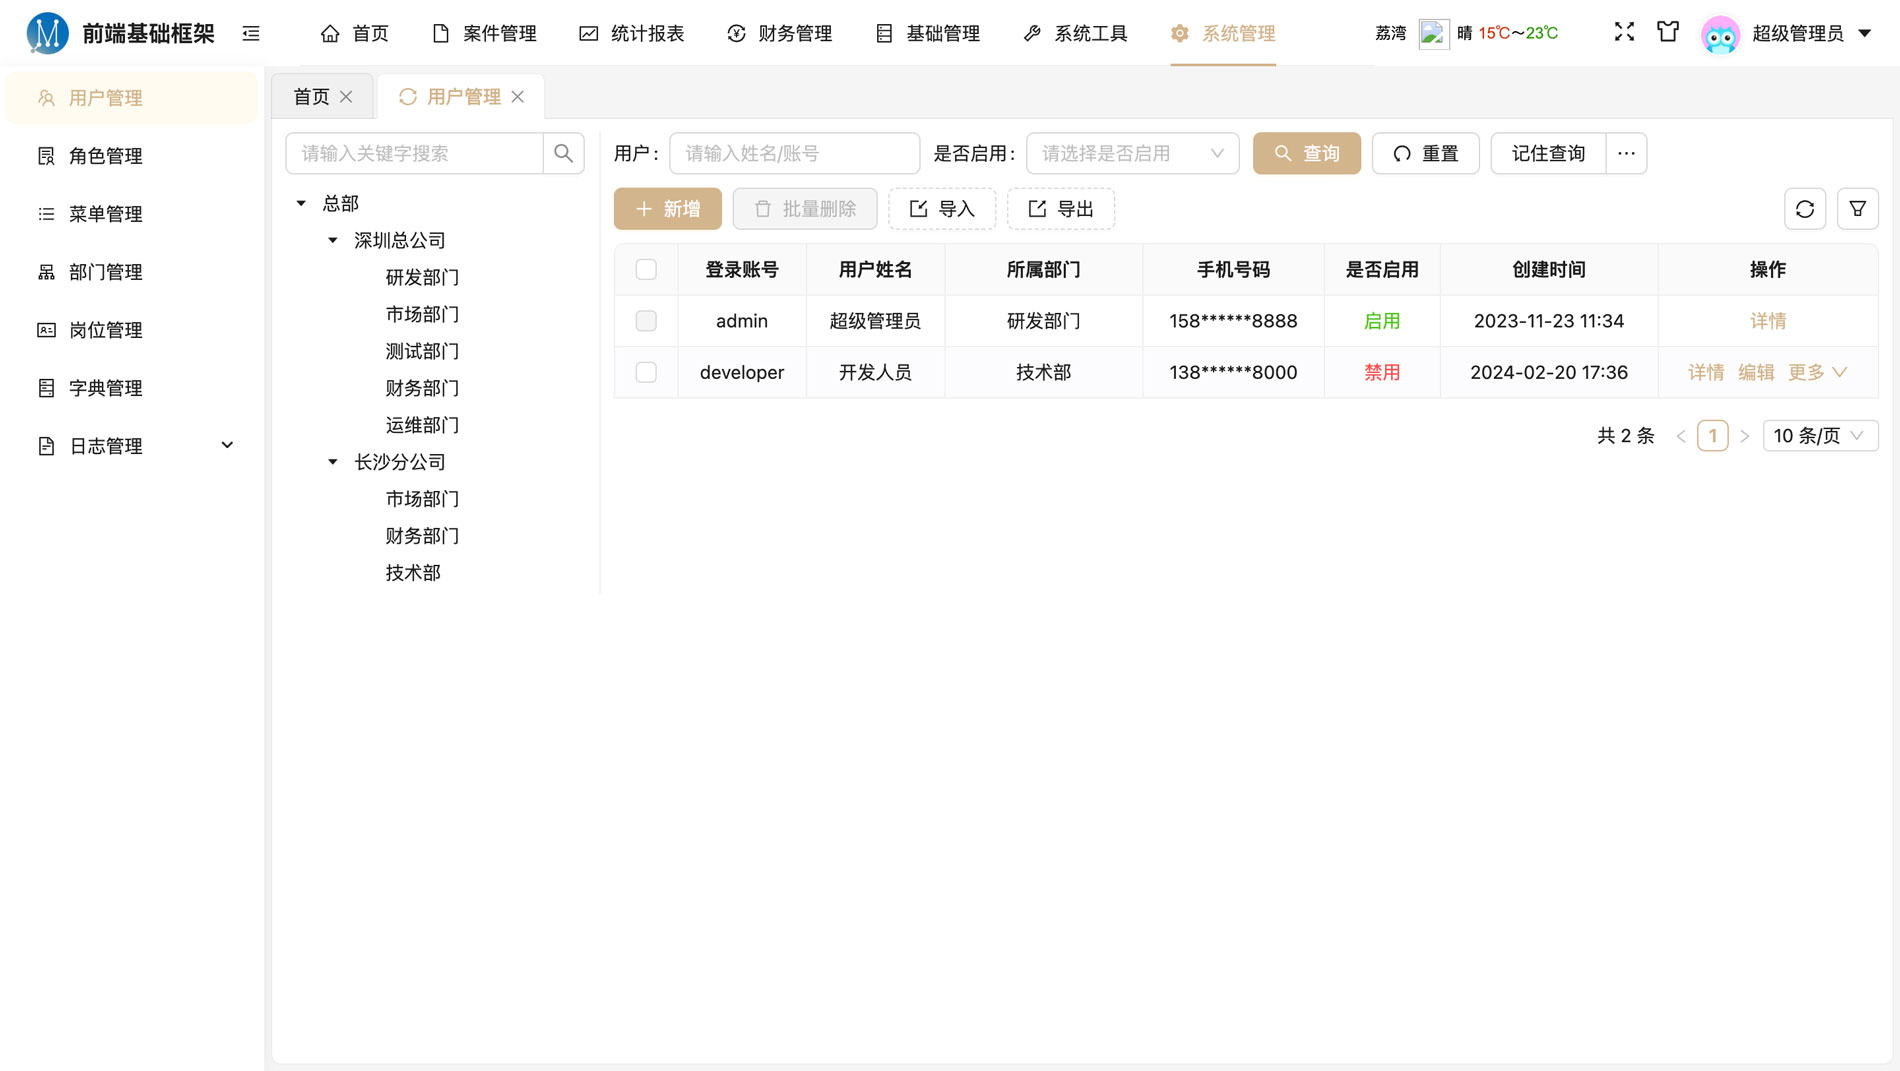
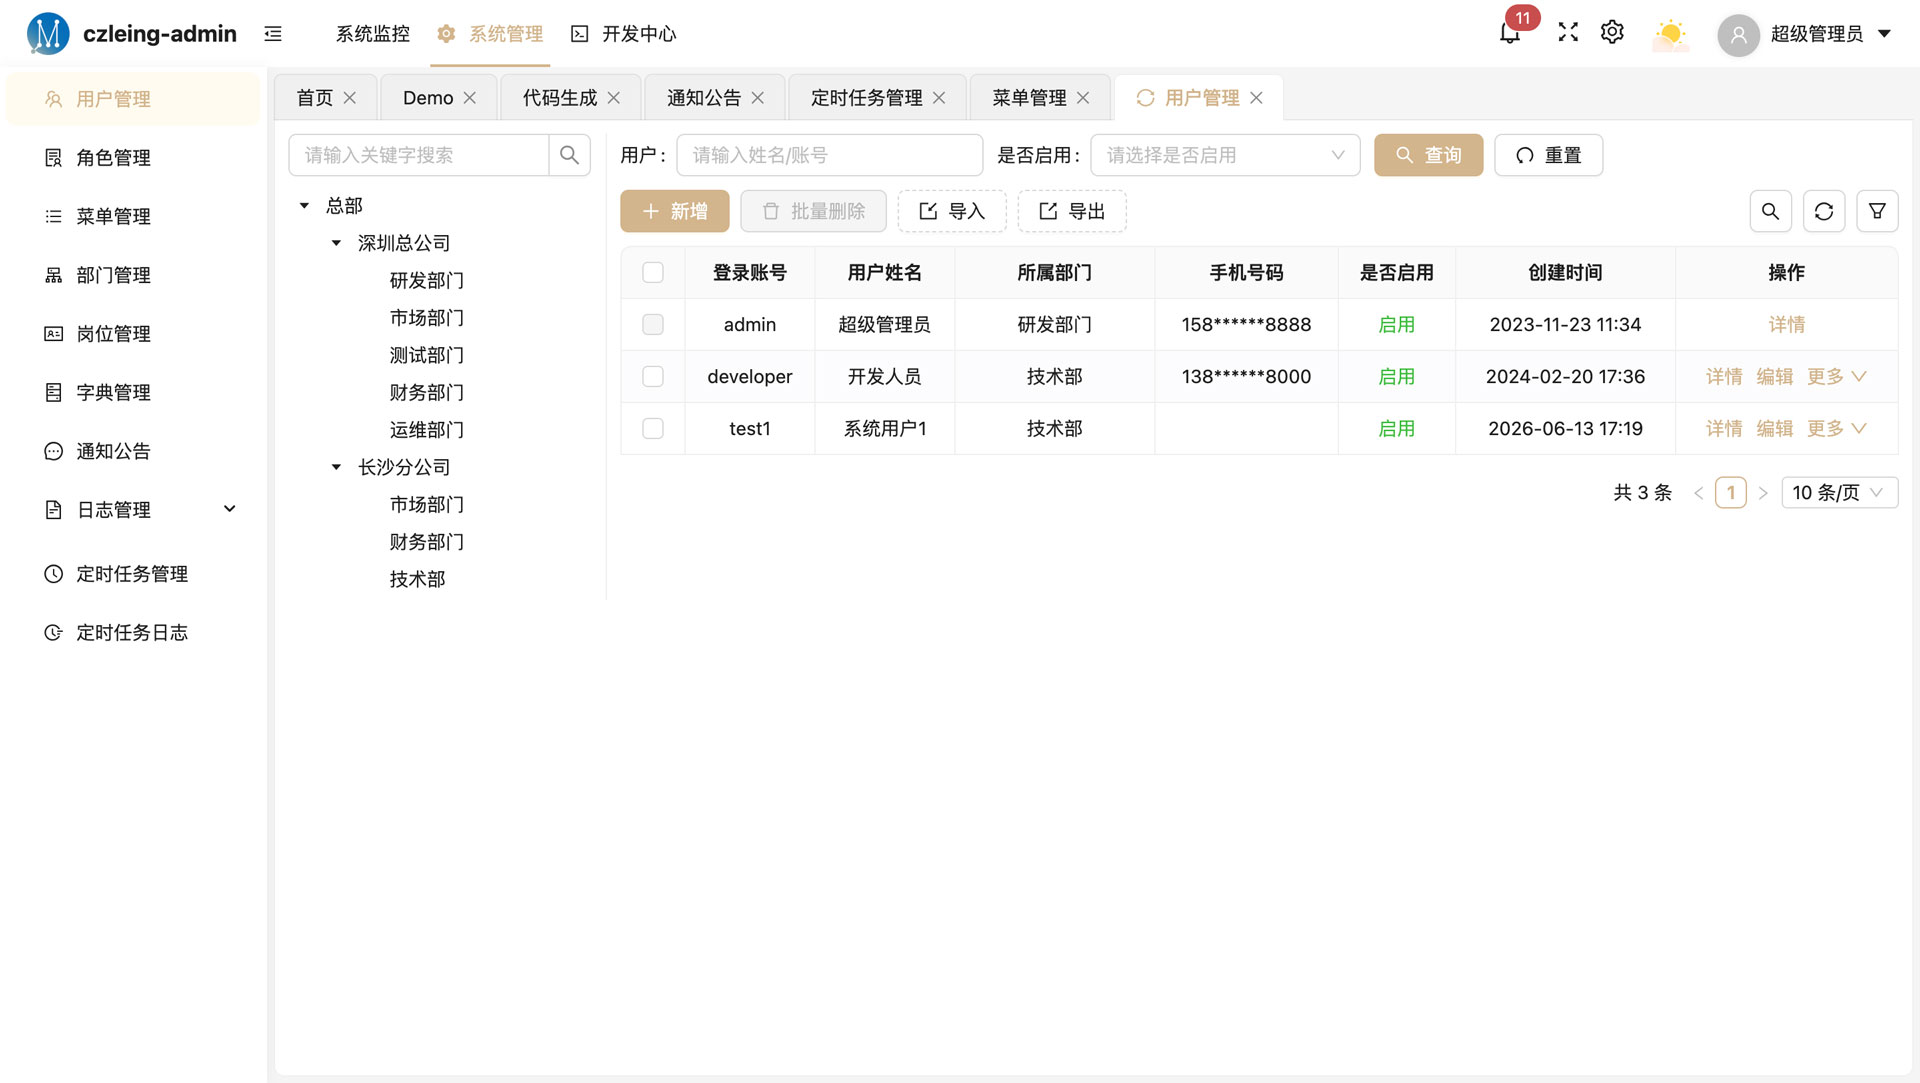
doc: 修改文档及图片

diff --git a/src/views/modules/example/form/index.vue b/src/views/modules/example/form/index.vue
@@ -117,7 +117,7 @@ function setData () {
   freeForm.value.setFormData({
     name: '张三',
     sex: '1',
-    dateRange: [dayjs('2026-07-16'), dayjs('2026-07-17')]
+    dateRange: [dayjs('2026-01-01'), dayjs('2026-12-30')]
   })
 }
 async function getData1 () {

diff --git a/README.md b/README.md
@@ -1,12 +1,12 @@
 <div align="center">
   <h1>czleing-admin</h1>
-  <h3>中后台管理系统配置化框架</h3>
+  <h3>中后台管理系统快速开发框架</h3>
 </div>
 
 ## 简介
 ### Vue3.5 + Vite8 + Pinia3 + Ant-design-vue4 + JavaScript + axios + vue-router + pnpm
 
-个人利用业余时间使用最新技术栈封装的一套后台管理前端开发框架，追求精简、优雅，没有个人的包名、前缀、广告，拿来免改，干净整洁，易懂易用易扩展，将常用的功能进行了灵活的封装，不再需要编写繁琐的表单、控件、校验、联动逻辑、获取数据逻辑、表单回填逻辑、数据转换逻辑、列表、弹窗等重复性代码，通过简单配置即可使用，部分约定大于配置，让开发尽量简单
+个人利用业余时间使用最新技术栈封装的一套轻量化后台管理系统开发框架，使用`代码生成` + `配置化CRUD`大大简化后台管理系统开发，精简、优雅，没有个人的包名、前缀、广告，拿来免改，干净整洁，易懂易用易扩展，将常用的功能进行了灵活的封装，不再需要编写繁琐的表单、控件、校验、联动逻辑、获取数据逻辑、表单回填逻辑、数据转换逻辑、列表、弹窗等重复性代码，通过简单配置即可使用，配置可自由扩展，部分约定大于配置，让开发尽量简单
 
 ## 环境要求
 - node: 20+
@@ -27,24 +27,25 @@
 - [后端源码](https://gitee.com/czleing/czleing-admin-api) 轻量化 spring-boot 单体后端服务
 
 ## 框架功能及特点
-- 主题色动态切换(使用 CSS 变量 + ThemeToken 双方案)
-- 全局明/暗色模式
-- 统一动态调整组件大小
+- 轻量化(没有微前端、没有微服务、没有繁琐的TS类型、没有防御性封装、没有冷门依赖、简单实用)
+- 主题色动态切换(多种预设主题加自定义可选、底层使用 CSS 变量 + ThemeToken 双方案)
+- 全局明/暗色模式(提供多种切换动画，丝滑过度)
 - 使用动态路由及权限配置(按钮级功能权限 + 数据权限)
-- 统一接口异常拦截及处理
-- 统一路由拦截及校验
 - 多种菜单布局方式
 - 支持标签栏展示多个页面
 - 支持多级路由缓存及刷新
-- 最新技术、前后端分离
+- 多种丝滑的标签页面切换动画
+- 接口统一使用POST请求，统一接口异常拦截及处理
+- 统一路由拦截及校验
+- 支持国际化(vue-i18n 按模块化配置，自动扫描)
 - 使用 JavaScript
-- 支持国际化(vue-i18n按模块配置)
 - 线上自动检测版本更新
-- CRUD 配置化自动生成，告别传统的大量DOM重复堆砌
 - 系统管理基础功能
 - 集成SSE消息通知
 - 定时任务管理及日志
+- CRUD 配置化自动生成，告别传统的大量DOM重复堆砌
 - Swagger 接口文档(入口：打开菜单：开发中心 -> 接口文档)
+- 最新技术、前后端分离
 - CRUD 可视化代码生成
 - 一个CRUD页面只有一个文件，不用到处跳，开发不割裂，代码简短，如：一个部门管理只需几十行代码，一个用户管理也仅200多行，菜单管理300多行
 - ==========================
